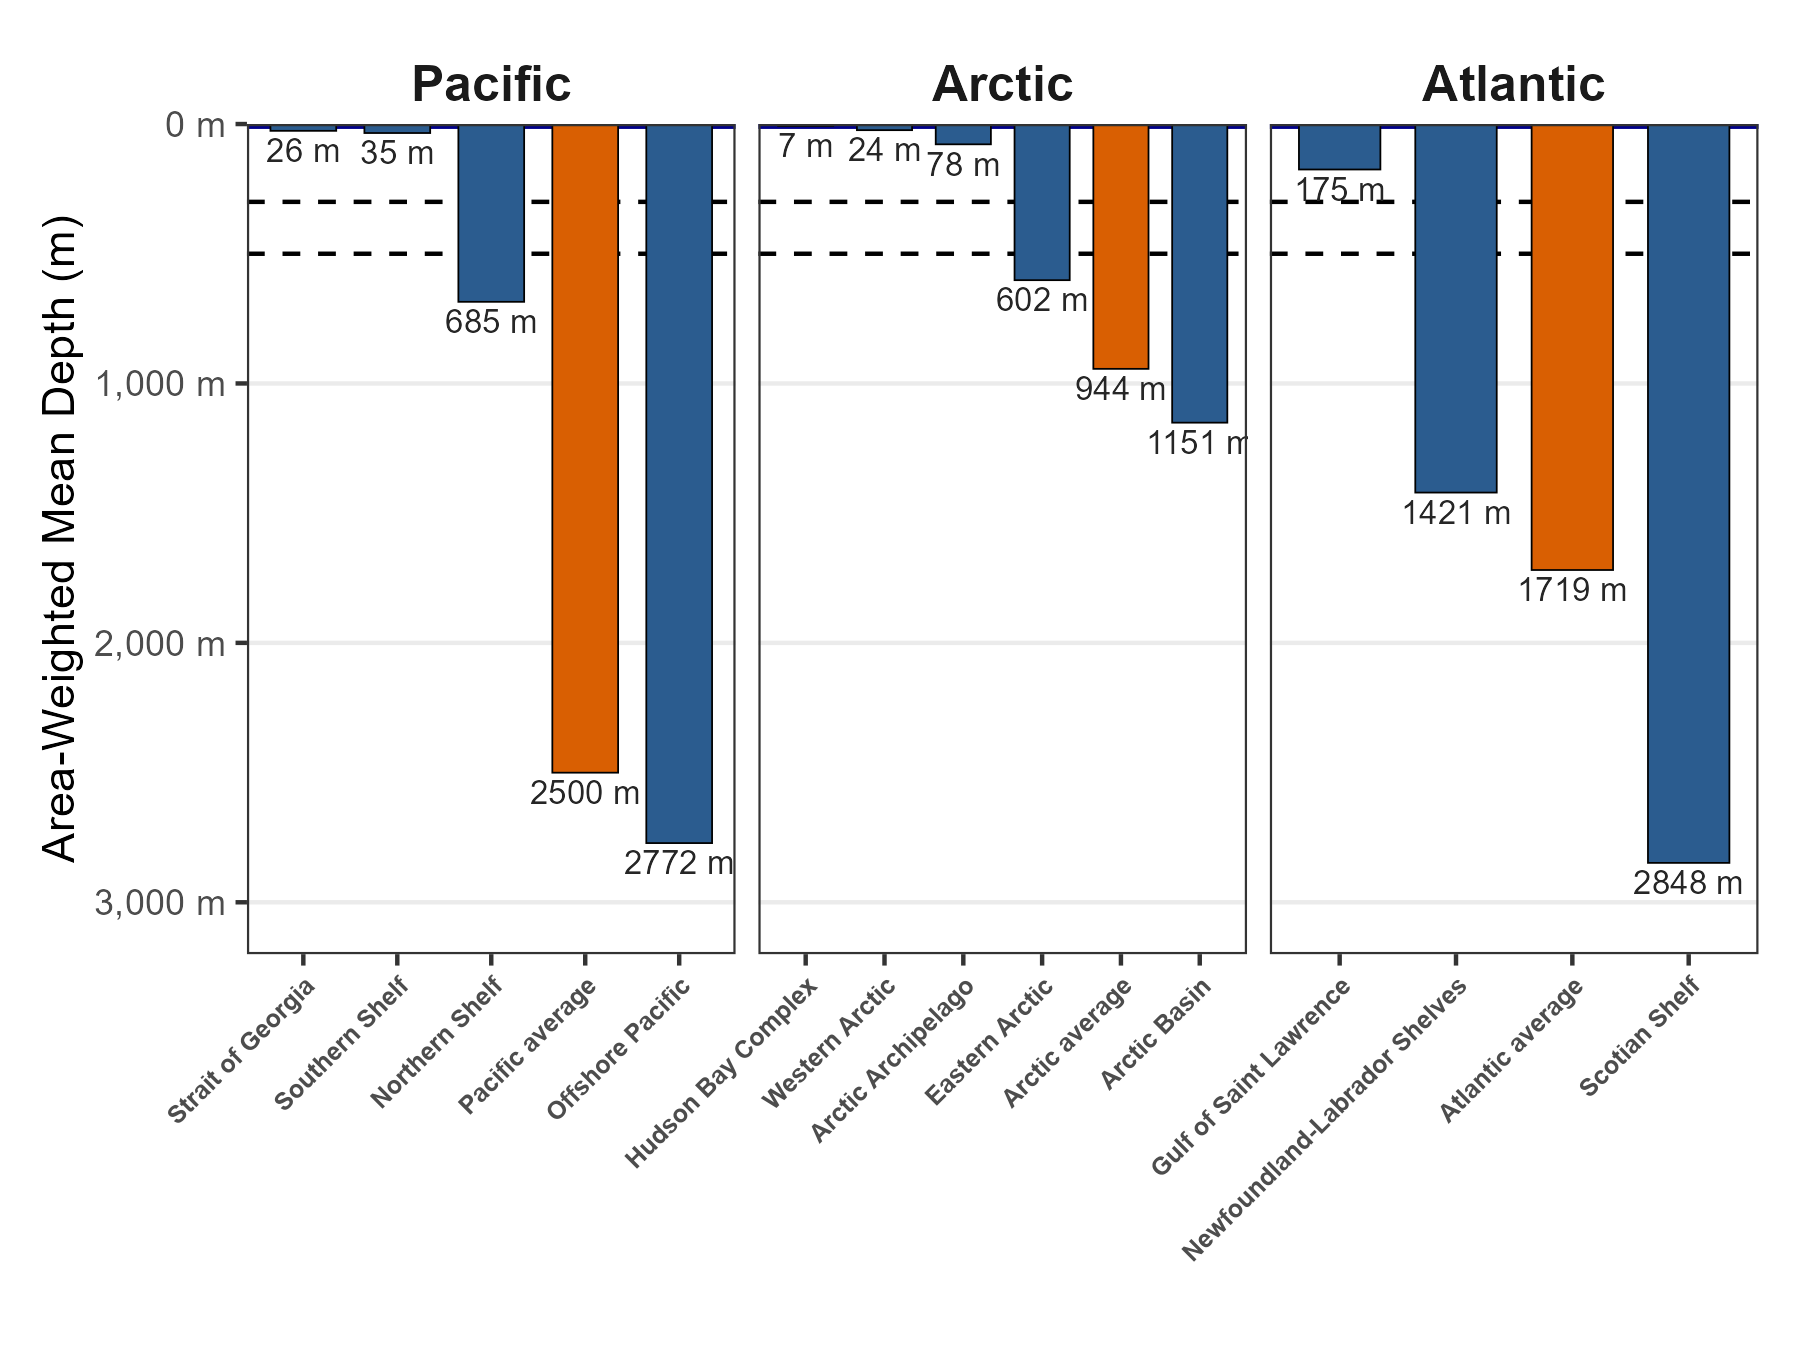
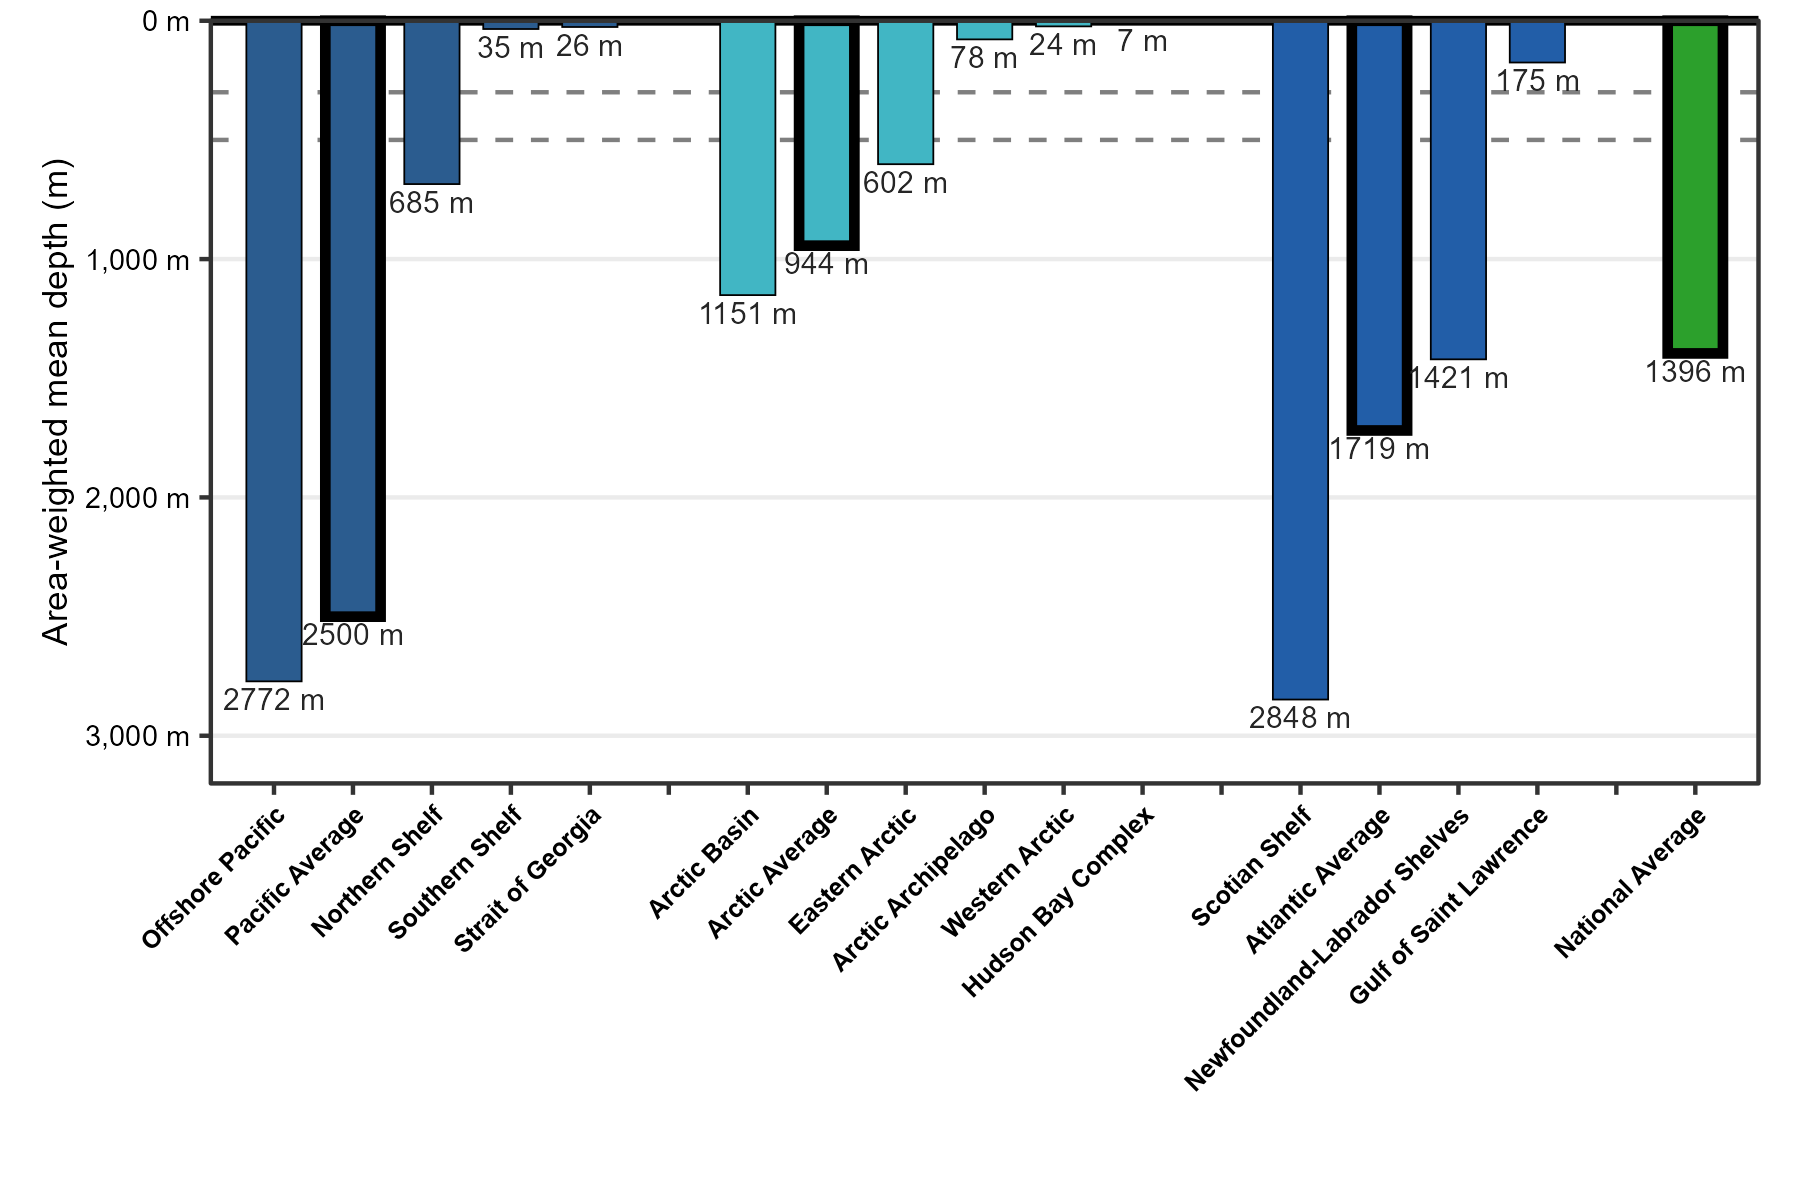
updated readme and depth summary

diff --git a/README.md b/README.md
@@ -3,8 +3,16 @@ Progress on Operationalizing eDNA Biomonitoring within Canadian Marine Conservat
 
 ![](output/canada_and_regions_combined.png)
 
-**Figure 1** - Canadian Conservation Network
+**Figure 1** - The Canadian Marine Conservation Network. Federal Marine Bioregions noted in the top panel, bottom panel depicts measures in the Pacific, Arctic, and Atlantic Oceans, with spatial conservation measures delineated to those under DFO jurisdiction (Oceans act MPAs and Fisheries Act Marine Refuges) and other spatial conservation measures denoted as OECMs implemented by other indigenous, federal, provincial, and territorial authorities. 
 
 ![](output/mar_edna_readme.png)
 
 **Figure 2** - Scotian Shelf-Bay of Fundy conservation network eDNA sampling program
+
+![](output/can_mcn_depths.png)
+
+**Figure 3** - Area-weighted mean bathymetric depth across Canadian marine bioregions, inline ocean averages (indicated by bold outlines), and the national average (green). Bars are ordered from deepest to shallowest within each ocean region, with reference lines at 300" m"  and 500" m" .
+
+![](output/canada_global_coverage.png)
+
+**Figure 3** - Big mandate, per capita challenge: Per capita marine conservation commitment, calculated as the total area of established marine conservation areas relative to national population size. Conservation area coverage was obtained from Protected Planet, population estimates from the R package rnaturalearth, and exclusive economic zone (EEZ) areas from the Marine Regions database. The analysis was restricted to countries with populations exceeding one million to reduce the influence of small island states on per capita comparisons. The top 25 countries by this metric are shown.
